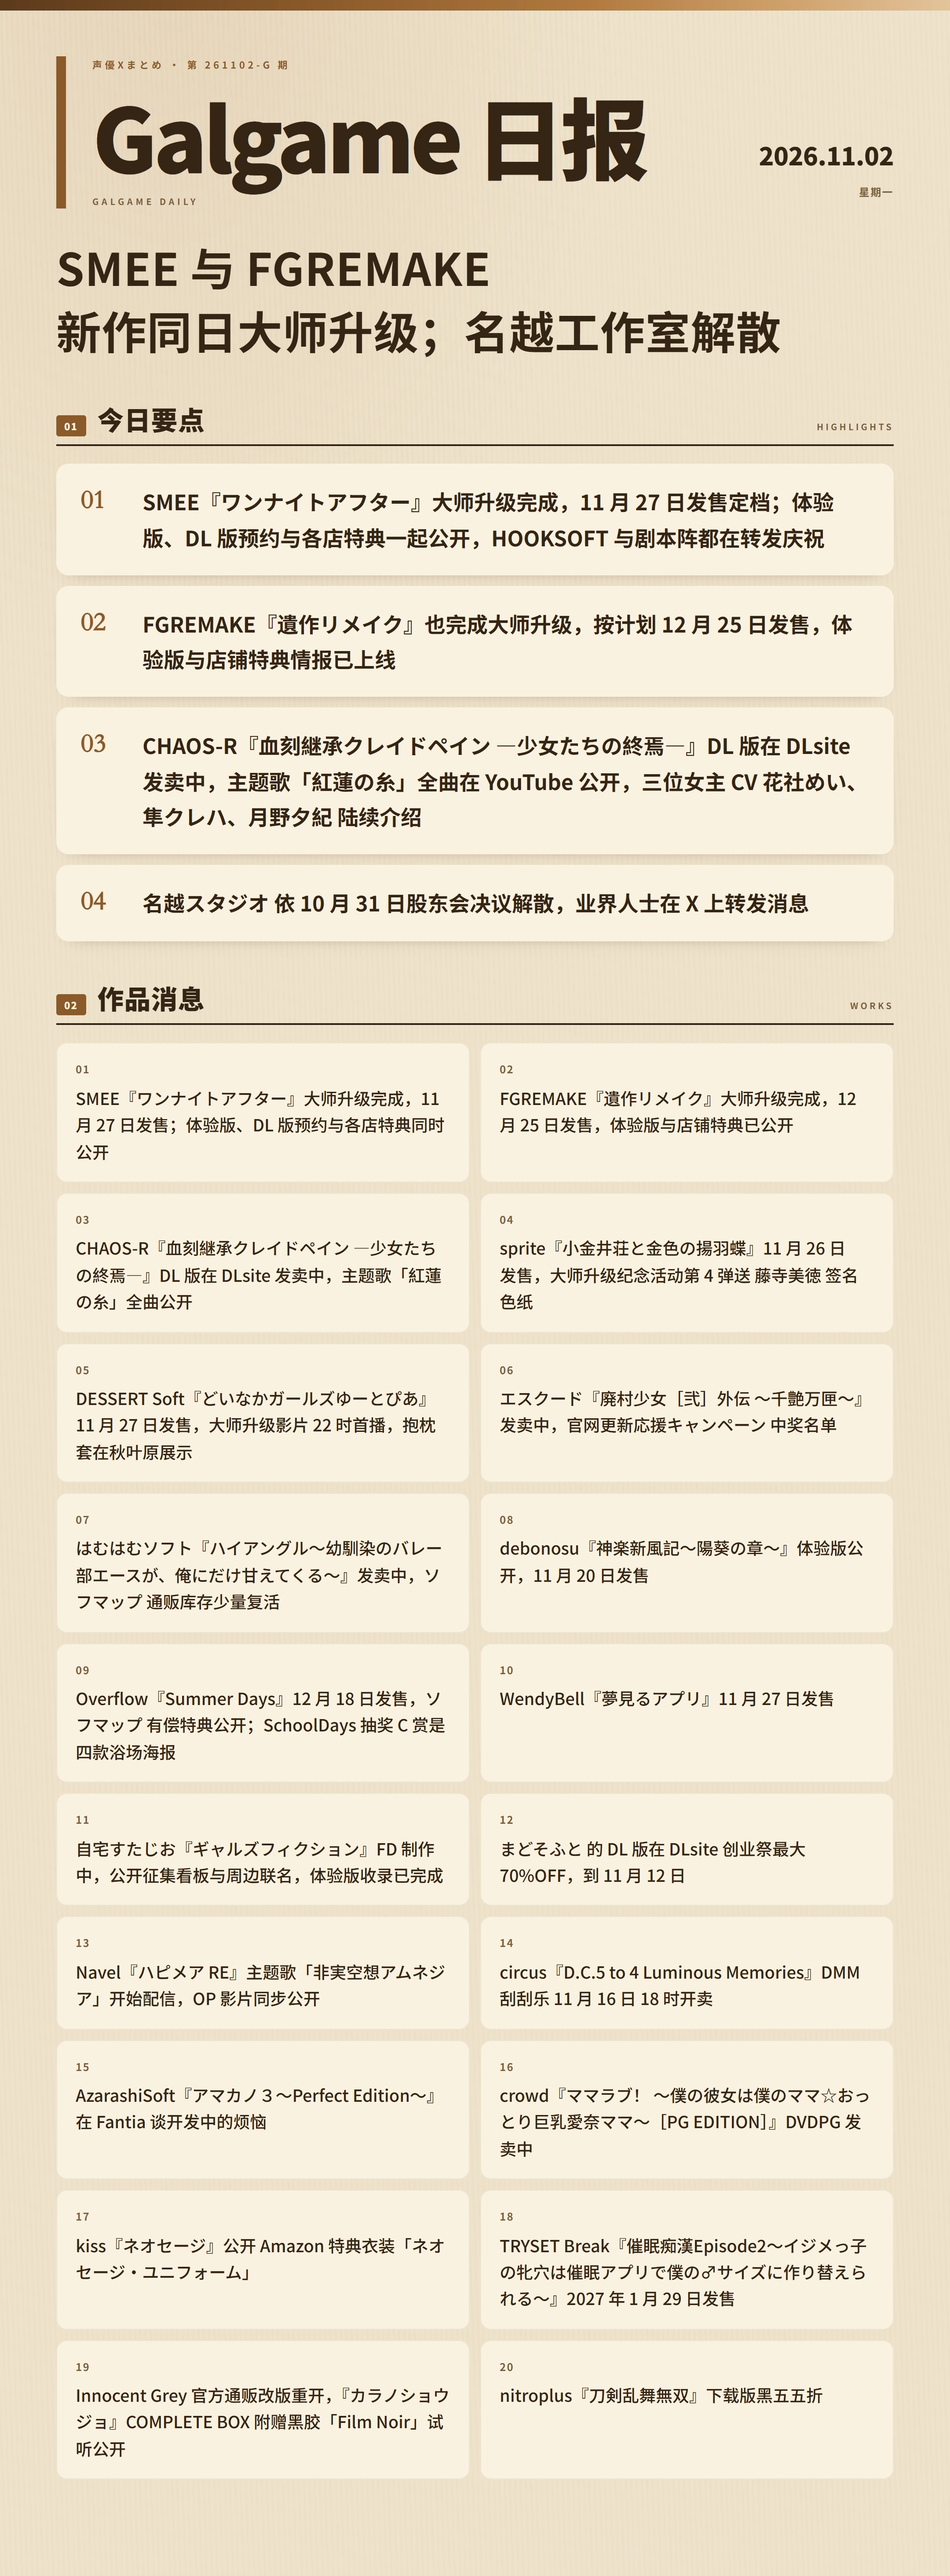
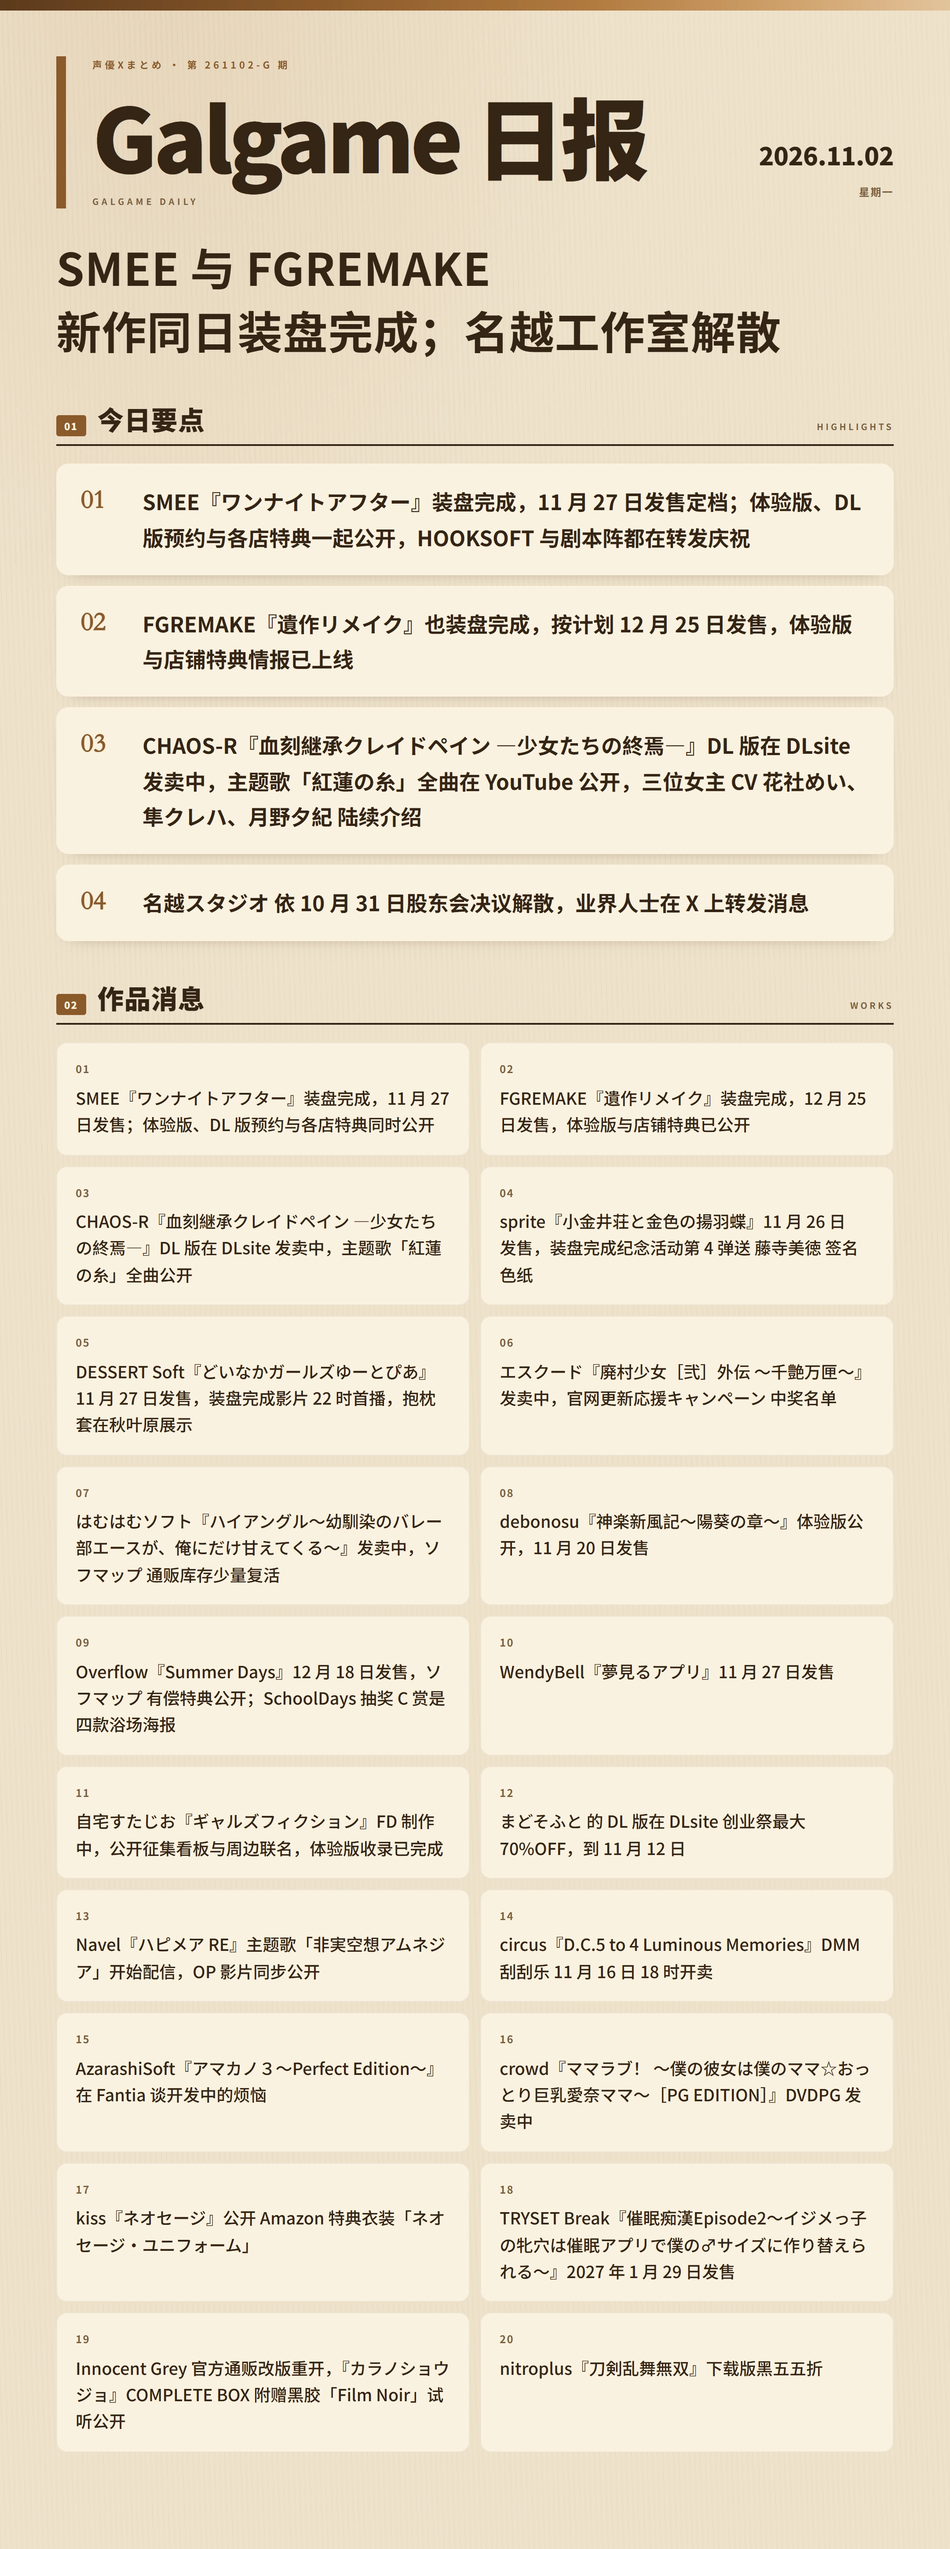
fix(daily): マスターアップ 译作「装盘完成」，中文题面带上术语表
- 261102-g 里 13 处「大师升级」全部改为「装盘完成」，长图重出
  （マスターアップ = 母盘制作完成、送厂压盘，进入量产准备发售）
- data/glossary.json 新增该词，avoid 记「大师升级」
- prompt.py 把 glossary 渲染成「## 术语」一节塞进整期题面，
  以前只有日语版题面（ja.py）带表，中文稿没有，才会漏出去
- cache.PROMPT_VERSION 1→2，让旧题面缓存失效

diff --git a/scripts/daily/prompt.py b/scripts/daily/prompt.py
@@ -67,8 +67,16 @@ RULES_FLAT = """\
    别把两三个作品塞进同一条。**作品开始发售或开放预约的那条必须写出作品名**——
    不许用「多部作品」「一批新作」「某系列」概括，读者要的是名字。
    不写链接、不需要 sources——人名在 `people` 里已经链到主号。最多 24 条，当天没有就空数组。
-6. 只输出 JSON，不要 Markdown 代码围栏，不要在 JSON 前后写解释。
+6. 术语照下面「## 术语」那张表写，`avoid` 列出的写法一律不许出现。
+   最容易犯的是**按字面拆词**：`マスターアップ` 是「装盘完成」（母盘做完、进量产准备发售），
+   不是「大师升级」。拿不准就照表，表里没有的保留原词并加一句解释。
+7. 只输出 JSON，不要 Markdown 代码围栏，不要在 JSON 前后写解释。
 """
+
+# 术语表是 `data/glossary.json`：`ja` 原词、`zh` 本站统一写法、`avoid` 明确不许出现的写法。
+# 以前只有日语版题面（`ja.py`）会带这张表，中文稿没有——「マスターアップ → 大师升级」
+# 就是这么漏出去的。中文题面也带上，代价是题面长两行，收益是不用每次事后返工。
+GLOSSARY = Path(__file__).resolve().parents[2] / "data" / "glossary.json"
 
 ANSWER_SKELETON_FLAT = """\
 {
@@ -103,6 +111,24 @@ class Prompt:
     json_path: Path
     cached: bool
     items: int
+
+
+def _glossary_lines(limit: int = 80) -> str:
+    """术语表 → 题面里那张对照表。读不到就返回空串（不让术语表挡住出题）。"""
+    try:
+        terms = json.loads(GLOSSARY.read_text(encoding="utf-8")).get("terms") or []
+    except (OSError, ValueError):
+        return ""
+    lines: list[str] = []
+    for term in terms[:limit]:
+        ja = str(term.get("ja") or "").strip()
+        zh = str(term.get("zh") or "").strip()
+        if not ja or not zh:
+            continue
+        avoid = [str(a).strip() for a in (term.get("avoid") or []) if str(a).strip()]
+        tail = f"（不要写：{'、'.join(avoid)}）" if avoid else ""
+        lines.append(f"- `{ja}` → {zh}{tail}")
+    return "\n".join(lines)
 
 
 def _item_lines(items: list[dict]) -> str:
@@ -288,6 +314,10 @@ def build_flat(
             "## 要求",
             "",
             RULES_FLAT,
+            "## 术语（照这张表写，`avoid` 里的写法一律不许出现）",
+            "",
+            _glossary_lines() or "（术语表为空）",
+            "",
             "## 本题的 handles（`people[].handle` 只能从这里取）",
             "",
             "、".join(f"`{h}`" for h in handles) or "（空）",

diff --git a/scripts/daily/cache.py b/scripts/daily/cache.py
@@ -19,7 +19,7 @@ from dataclasses import asdict, dataclass, field
 from datetime import datetime, timezone
 from pathlib import Path
 
-PROMPT_VERSION = 1
+PROMPT_VERSION = 2  # 2：中文题面带上 data/glossary.json 的术语表
 
 FRESH = "fresh"
 STALE = "stale"
